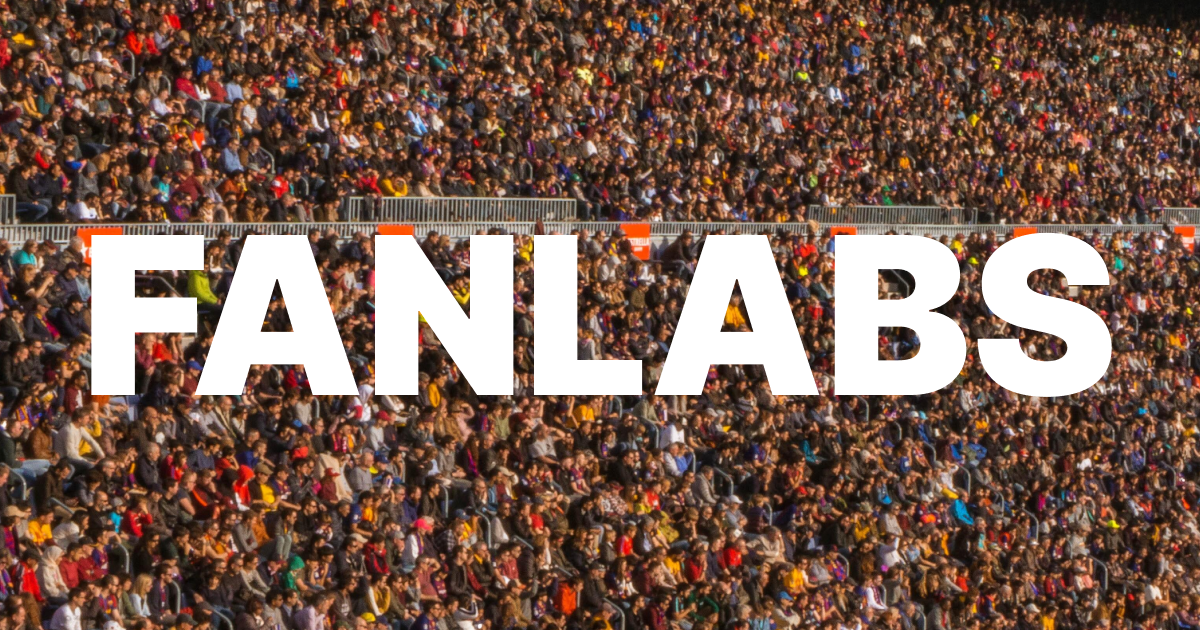
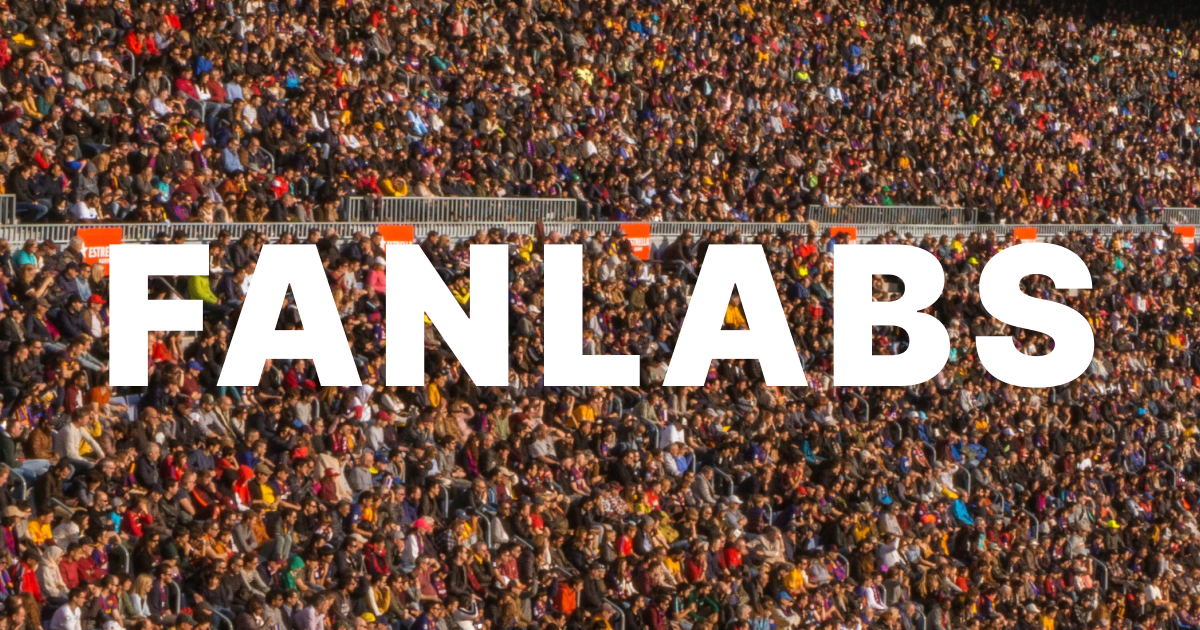
refactor: title to svg

Changed region(s): [[0.0617, 0.3619, 0.5858, 0.6333], [0.555, 0.3619, 0.925, 0.6333], [0.5858, 0.3619, 0.6475, 0.4524]]

diff --git a/style.css b/style.css
@@ -6,7 +6,7 @@
   padding: 0;
 }
 body {
-  animation: onload 2s ease-in-out;
+  animation: onload 6s ease-in-out;
   color: white;
   font-family: sans-serif;
   background-image: url('images/background.jpg');
@@ -42,11 +42,8 @@ a {
   text-align: center;
   bottom: 92px;
 }
-
-h1 {
-  font-size: 13.75rem;
-  line-height: 100%;
-  font-weight: 900;
+.logo {
+  height: 13vw;
 }
 h2 {
   font-size: 3.75rem;
@@ -59,17 +56,11 @@ h3 {
 }
 
 @media only screen and (max-width: 1080px) {
-  h1 {
-    font-size: 9rem;
-  }
   h2 {
     font-size: 2.5rem;
   }
 }
 @media only screen and (max-width: 768px) {
-  h1 {
-    font-size: 4.75rem;
-  }
   h2 {
     transform: none;
     font-size: 1.5rem;
@@ -79,9 +70,6 @@ h3 {
   }
 }
 @media only screen and (max-width: 400px) {
-  h1 {
-    font-size: 4rem;
-  }
   h2 {
     font-size: 1.5rem;
   }

diff --git a/index.html b/index.html
@@ -23,8 +23,7 @@
   <body>
     <div class="overlay"></div>
     <div class="central-container">
-      <h1>FANLABS</h1>
-      <!-- <h2>Fan Segmentation Data Science</h2> -->
+      <img class="logo" src="./images/FANLABS.svg" alt="FANLABS" />
     </div>
     <h3 class="bottom-container">
       Read our book <a href="https://fanshavemorefriends.com/" target="_blank">Fans Have More Friends</a>
